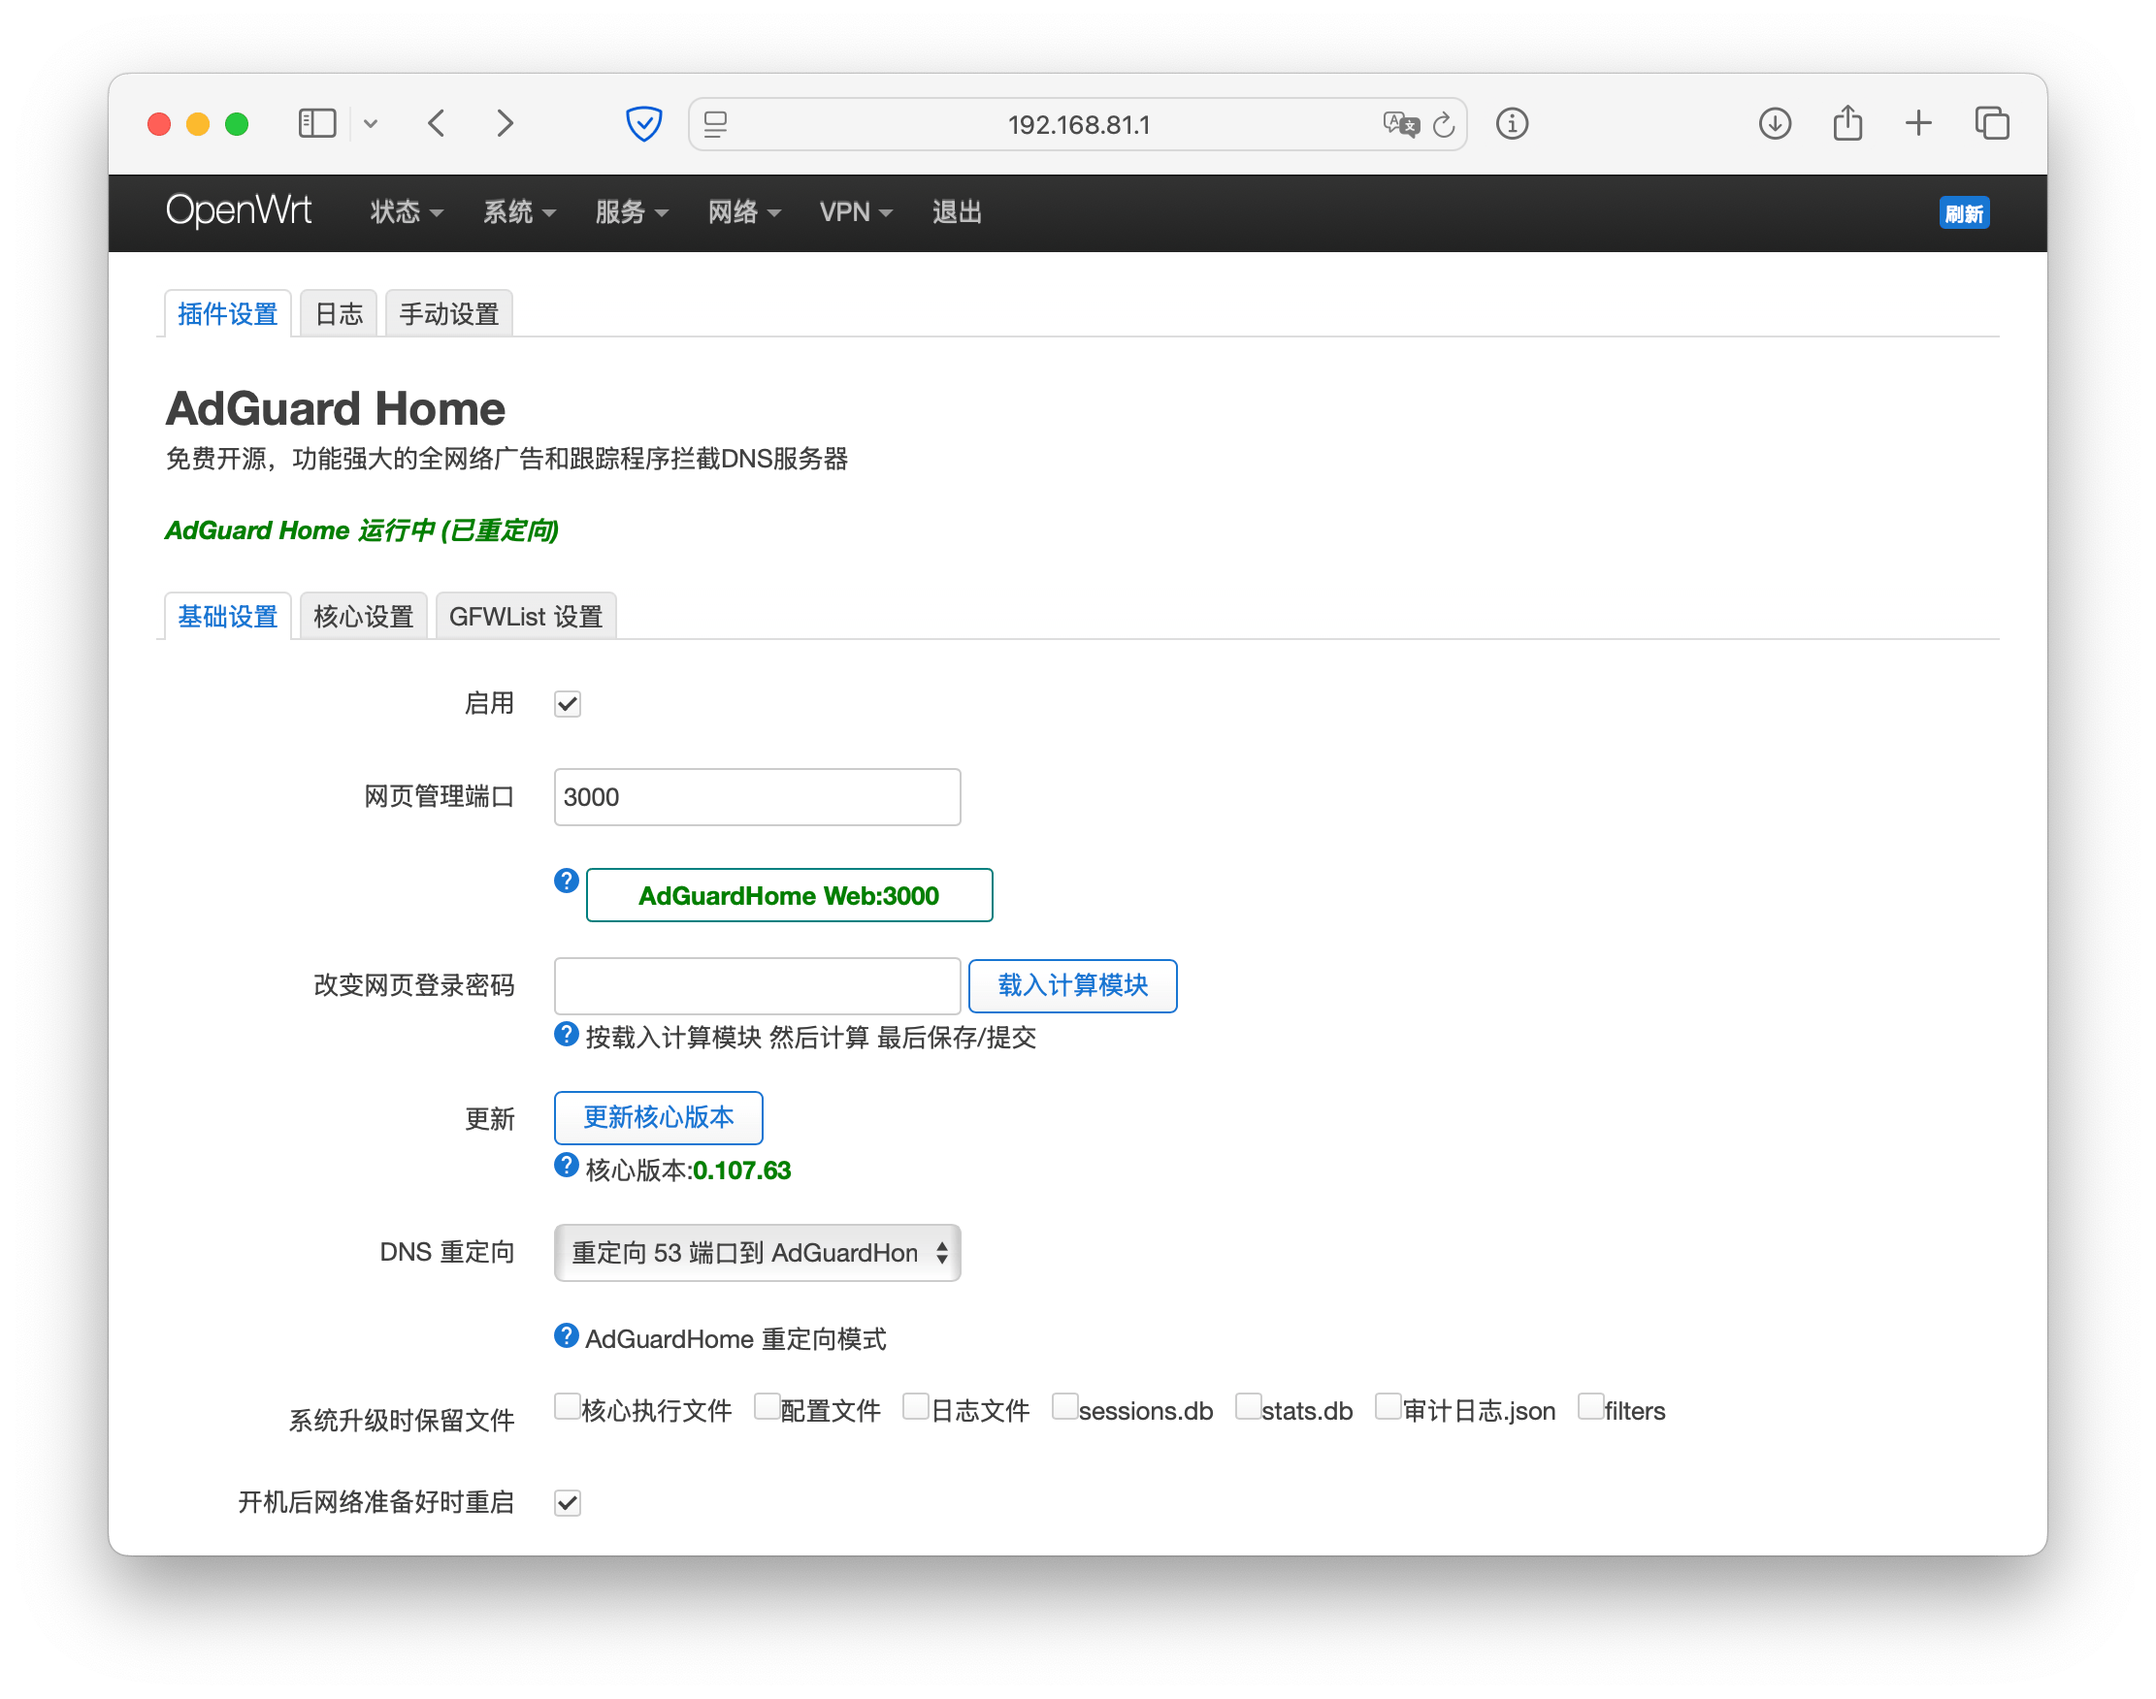
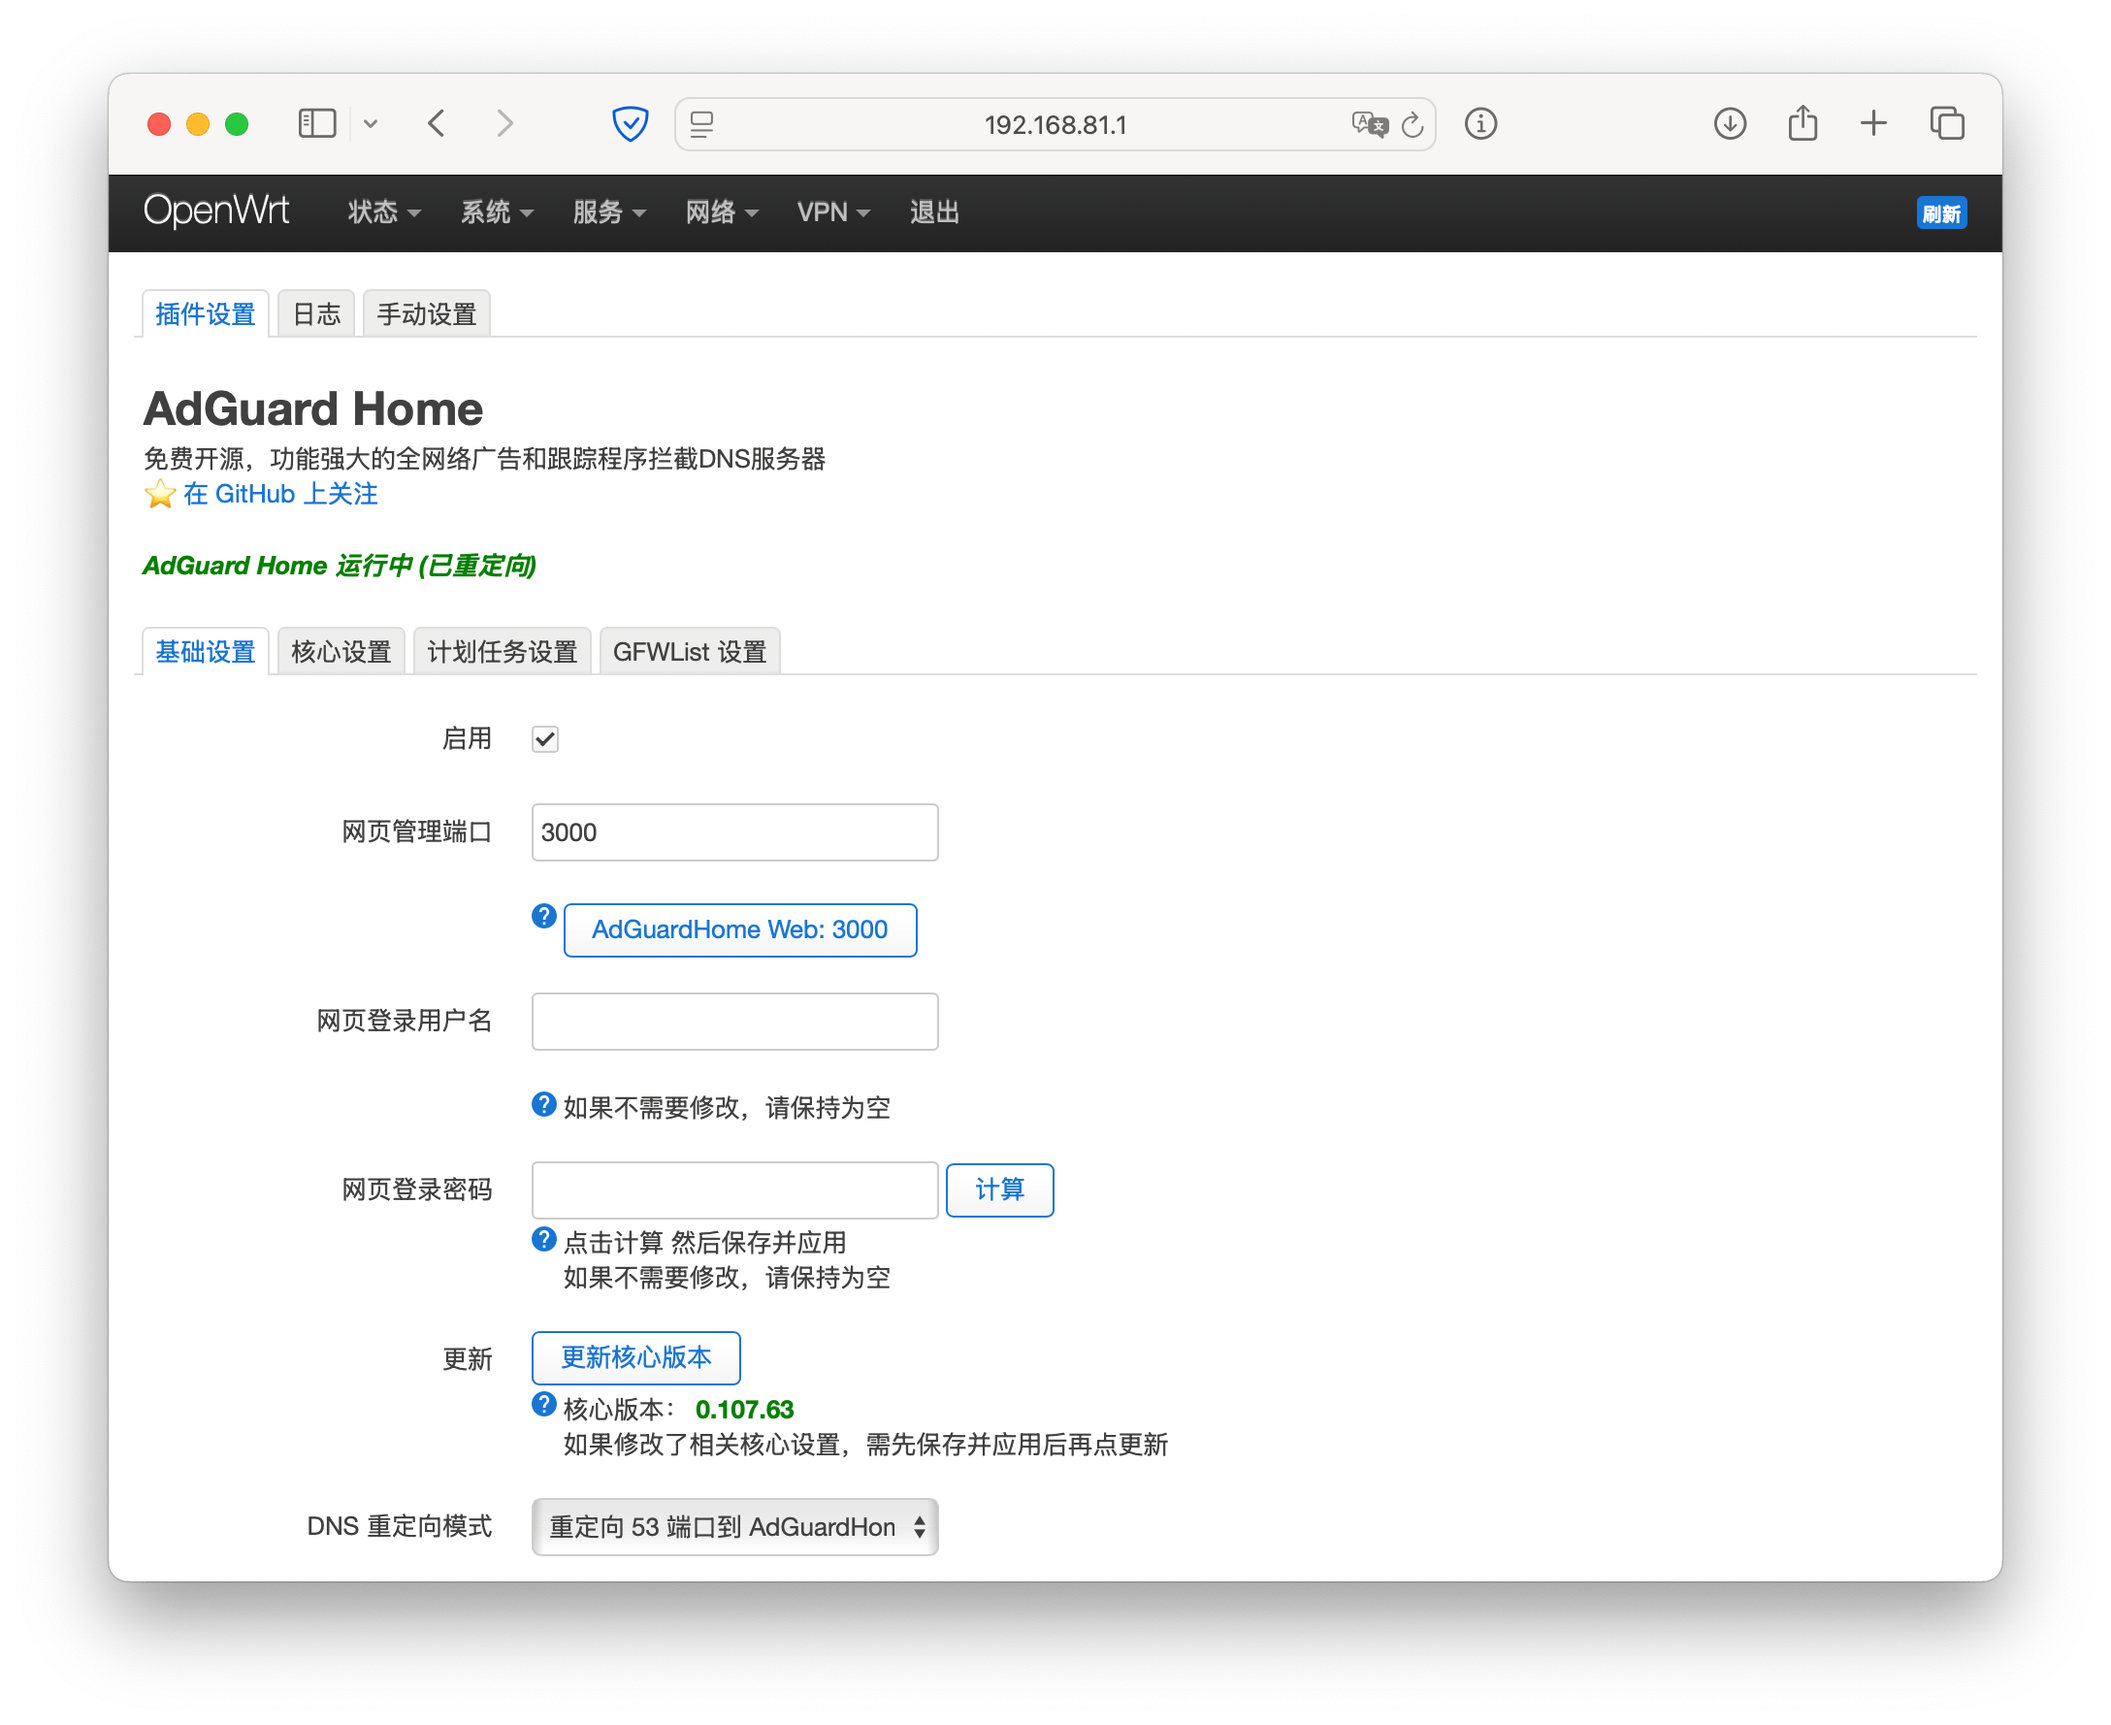
Update README

diff --git a/README.md b/README.md
@@ -1,6 +1,6 @@
 # LuCI App AdGuard Home
 
-Advanced OpenWrt LuCI app for AdGuard Home
+A powerful LuCI interface for managing AdGuard Home - a DNS-based ad and tracker blocker that protects all devices on your network
 
 [中文 README](README.CN.md)
 

diff --git a/README.CN.md b/README.CN.md
@@ -1,6 +1,6 @@
 # LuCI App AdGuard Home
 
-先进的 OpenWrt AdGuard Home LuCI 界面应用
+AdGuard Home 的强大 LuCI 界面 - 基于 DNS 的广告和跟踪阻止程序，保护您网络上的所有设备
 
 ## 功能特点
 
